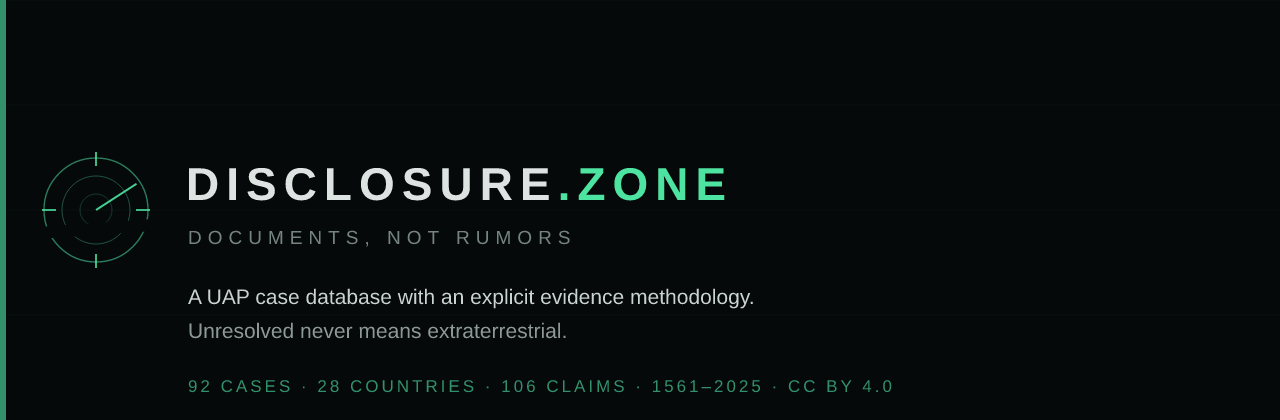
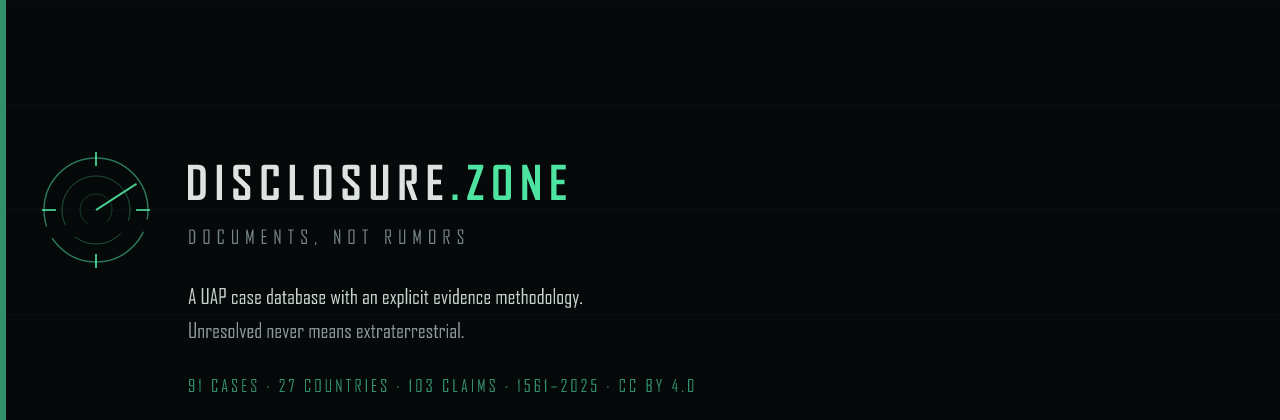
Rebuild belgian-wave-1990 on its two sources and remove chile-navy-2014
- belgian-wave-1990 now rests on what can be opened today: The National
  Archives' paragraph on the night of 30–31 March 1990 (T4) and one sentence
  in a Boston Sunday Globe article of 21 May 2000 filed in the release with
  the COMETA translation (T5, p. 91 of the file; the page is the newspaper,
  not the COMETA report). The radar recordings, the tracking-filter
  explanation, the gendarmerie witnesses and the Petit-Rechain photograph had
  no source and are gone. Scores S1 R1 O0 P0 M1 T1 X1 D0, overall 0.6,
  class D; tier 3; the pin is OpenStreetMap's point for Belgium.
- chile-navy-2014 and the claims chile-navy-video, belgian-f16-acceleration
  and belgian-triangle-photo removed; their reasons are on /withdrawn.
- check-data fails if an id listed in src/data/withdrawn.ts comes back as a
  case or a claim.
- README and banner: 91 cases from 27 countries, 103 claims; 170 of 269
  sources reach the material, 37 point at an archive, 62 have neither.

diff --git a/src/data/claims.ts b/src/data/claims.ts
@@ -438,34 +438,6 @@ export const claims: Claim[] = [
                pl: "Dokumentacja medyczna z placówek na wyspie z okresu wrzesień 1977 – styczeń 1978." },
   },
   {
-    id: "belgian-f16-acceleration",
-    originTier: "T1",
-    status: "misstated",
-    cases: ["belgian-wave-1990"],
-    claim:    { en: "“F-16 radar recorded accelerations impossible for known technology.”",
-               pl: "„Radar F-16 zarejestrował przyspieszenia niemożliwe dla znanej technologii.”" },
-    origin:   { en: "F-16 radar recordings from the night of 30/31 March 1990",
-               pl: "Zapisy radarowe F-16 z nocy 30/31 marca 1990" },
-    verdict:  { en: "The recordings are authentic, but an F-16 radar does not display the target’s raw position — it displays the output of a tracking filter that smooths and predicts a trajectory. When the filter drops one target and acquires another, the record shows a jump that looks exactly like extreme acceleration. This is the single best lesson in the database: you must know whether you are looking at a measurement or at a software product.",
-               pl: "Zapisy są autentyczne, ale radar F-16 nie pokazuje surowej pozycji celu, pokazuje wynik pracy filtru śledzącego, który wygładza i przewiduje trajektorię. Gdy filtr gubi cel i chwyta inny, w zapisie pojawia się skok wyglądający dokładnie jak ekstremalne przyspieszenie. To najlepsza lekcja w całej bazie: trzeba wiedzieć, czy patrzymy na pomiar, czy na produkt oprogramowania." },
-    resolver: { en: "Pre-filter raw data, together with the state and parameters of the tracking algorithm.",
-               pl: "Surowe dane przed filtrem, wraz z opisem stanu i parametrów algorytmu śledzenia." },
-  },
-  {
-    id: "belgian-triangle-photo",
-    originTier: "T5",
-    status: "refuted",
-    cases: ["belgian-wave-1990"],
-    claim:    { en: "“The Petit-Rechain photograph shows a triangular craft from the Belgian wave.”",
-               pl: "„Fotografia z Petit-Rechain przedstawia trójkątny obiekt fali belgijskiej.”" },
-    origin:   { en: "The wave’s most famous photograph, still reproduced today",
-               pl: "Najsłynniejsze zdjęcie fali, reprodukowane do dziś" },
-    verdict:  { en: "In 2011 the photographer admitted on Belgian television that he had built the object from painted styrofoam with lights at the corners, hung on threads. In 2022 he was reported as claiming he had been paid to call it a hoax. That retraction has no documentary support — and it does not rescue the image either way: a photograph whose own author has given two contradictory accounts of making it cannot carry evidential weight. We record the whole sequence because the image is still reproduced, and its circulation distorts how the — otherwise strong — Belgian case is read.",
-               pl: "W 2011 r. fotograf przyznał w belgijskiej telewizji, że zbudował obiekt z pomalowanego styropianu ze światłami w rogach, zawieszonego na żyłkach. W 2022 r. doniesiono, że twierdzi, iż zapłacono mu za nazwanie zdjęcia mistyfikacją. To wycofanie nie ma poparcia dokumentowego i tak czy inaczej nie ratuje zdjęcia: fotografia, której własny autor przedstawił dwie sprzeczne wersje jej powstania, nie może nieść ciężaru dowodowego. Odnotowujemy całą sekwencję, bo zdjęcie wciąż jest reprodukowane, a jego obieg zniekształca postrzeganie skądinąd mocnej sprawy belgijskiej." },
-    resolver: { en: "The original negative, examined independently. Absent that, the contradictory authorship settles it as unusable.",
-               pl: "Oryginalny negatyw zbadany niezależnie. Bez tego sprzeczne wersje autorstwa i tak czynią zdjęcie bezużytecznym." },
-  },
-  {
     id: "gofast-extreme-speed",
     originTier: "T5",
     status: "refuted",
@@ -912,20 +884,6 @@ export const claims: Claim[] = [
                pl: "Potwierdzone publicznie na szczeblu ministerialnym w ciągu dni od zdarzenia, w skali światowej niemal bezprecedensowe. Paradoksalnie sprawiło to, że sprawa jest znacznie mniej znana niż Rendlesham, o którym rząd milczał." },
     resolver: { en: "Nothing as to the intercepts. The nature of the targets remains undetermined.",
                pl: "Nic co do faktu przechwyceń. Charakter celów pozostaje nieustalony." },
-  },
-  {
-    id: "chile-navy-video",
-    originTier: "T1",
-    status: "refuted",
-    cases: ["chile-navy-2014"],
-    claim:    { en: "“The Chilean Navy video shows an object venting material.”",
-               pl: "„Chilijskie nagranie marynarki pokazuje obiekt zrzucający materię.”" },
-    origin:   { en: "IR footage investigated by the state agency CEFAA",
-               pl: "Materiał IR badany przez państwową agencję CEFAA" },
-    verdict:  { en: "After two years of investigation CEFAA identified the object as a scheduled passenger aircraft and the ‘venting’ as contrails dispersing in a high-humidity layer. Settling it required a flight plan — data the operators in the air simply did not have.",
-               pl: "Po dwóch latach dochodzenia CEFAA zidentyfikowała obiekt jako samolot pasażerski w locie rejsowym, a „zrzut materii” jako smugi kondensacyjne rozpraszające się w warstwie o wysokiej wilgotności. Do rozwiązania wystarczył plan lotu, dane, których operatorzy w powietrzu nie mieli." },
-    resolver: { en: "Nothing — the case was resolved and announced publicly.",
-               pl: "Nic, sprawa rozwiązana i ogłoszona publicznie." },
   },
   {
     id: "rendlesham-radar",

diff --git a/src/content/pl/belgian-wave-1990.md b/src/content/pl/belgian-wave-1990.md
@@ -1,58 +1,76 @@
 ---
 title: "Fala belgijska"
-subtitle: "F-16 z zapisem radarowym przeciw trójkątom nad Belgią i poprawka, która wszystko zmienia"
-dateDisplay: "listopad 1989 – kwiecień 1990; kluczowa noc 30/31 marca 1990"
+subtitle: "Trójkąty zgłoszone nad Belgią i dwa F-16 poderwane 30–31 marca 1990 r., znane tylko z dwóch późniejszych relacji"
+dateDisplay: "30–31 marca 1990, po miesiącach obserwacji"
 countryName: "Belgia"
-location: "Wallonia, rejon Eupen, Wavre; przestrzeń nad centralną Belgią"
-duration: "fala pięciomiesięczna; kluczowa akcja ok. 1 godziny"
-witnesses: "Funkcjonariusze żandarmerii, tysiące świadków cywilnych, załogi dwóch F-16"
-summary: "Przez pięć miesięcy tysiące osób w Belgii, w tym funkcjonariusze żandarmerii, zgłaszało duże, ciche obiekty trójkątne. W nocy 30/31 marca 1990 r. przy korelacji z radarami naziemnymi poderwano dwa F-16, których radary uzyskiwały krótkotrwałe kontakty."
-official: "Belgijskie siły powietrzne opublikowały dokumentację i uczestniczyły w analizie. Sprawa pozostała bez identyfikacji."
-alternatives:
-- "Artefakty filtru śledzenia radaru pokładowego F-16, późniejsze analizy wskazały, że nagłe „przyspieszenia” w zapisach odpowiadają zachowaniu filtru Kalmana przy przeskoku śledzenia, a nie ruchowi obiektu."
-- "Helikoptery, samoloty w nietypowych konfiguracjach świetlnych i balony jako źródło części obserwacji naziemnych."
-- "Tajne statki powietrzne (hipoteza stealth), nigdy nie potwierdzona."
+location: "Belgia; kontakt radarowy zgłoszono nad środkową Belgią. Znacznik to punkt OpenStreetMap dla Belgii, nie miejsce żadnej obserwacji"
+witnesses: "Nikt z nazwiska. Streszczenie podaje tylko, że obiekty „were reported” (zgłoszono); piloci dwóch F-16 „reported no sightings”, czyli niczego nie zobaczyli"
+summary: "Według streszczenia The National Archives (Wielka Brytania) 30–31 marca 1990 r. nad Belgią „large, unknown triangular-shaped objects were reported”, czyli zgłoszono duże, nieznane obiekty w kształcie trójkąta, po miesiącach obserwacji; radar „reportedly tracked an unknown object over central Belgium” (podobno śledził nieznany obiekt nad środkową Belgią), belgijskie lotnictwo poderwało dwa F-16, a „The pilots reported no sightings, and the object was not identified”, czyli piloci niczego nie zobaczyli i obiektu nie zidentyfikowano. Artykuł prasowy z 2000 r., złożony w wydaniu, podaje, że F-16 były „armed with missiles” (uzbrojone w pociski)."
+official: "Jedyny urzędowy opis, jaki udało się znaleźć, jest brytyjski. The National Archives: „The pilots reported no sightings, and the object was not identified” (piloci niczego nie zobaczyli, a obiektu nie zidentyfikowano). Dodaje, że Wielka Brytania „was not informed at the time as there was no evidence of any threat” (nie została wtedy poinformowana, bo nic nie wskazywało na zagrożenie) i że „There were no investigations by the Ministry” (ministerstwo nie prowadziło dochodzenia). W wydaniach i na stronach urzędowych, które udało się znaleźć, nie ma żadnego belgijskiego dokumentu."
 sources:
-- "label": "Dokumentacja belgijskich sił powietrznych, w tym materiały gen. Wilfrieda de Brouwera"
-- "label": "Zapisy radarowe F-16 z nocy 30/31 marca 1990"
-- "label": "Późniejsze analizy techniczne zapisów radarowych"
-  note: "To tutaj pojawia się kluczowa poprawka dotycząca filtru śledzenia."
-- "label": "Słynna fotografia trójkąta z Petit-Rechain"
-  note: "Autor przyznał się do mistyfikacji. Zdjęcie nie ma żadnej wartości dowodowej."
 - "label": "The National Archives (Wielka Brytania), strona „UFO reports”: akapit o wydarzeniach w Belgii 30–31 marca 1990"
-  note: "Streszczenie archiwum brytyjskiego, nie dokument belgijski: „Radar reportedly tracked an unknown object over central Belgium, and the Belgian Air Force scrambled two F-16s. The pilots reported no sightings, and the object was not identified.”, czyli radar podobno śledził nieznany obiekt nad środkową Belgią, belgijskie lotnictwo poderwało dwa F-16, piloci niczego nie zobaczyli, a obiektu nie zidentyfikowano."
+  note: "Streszczenie archiwum brytyjskiego, nie dokument belgijski. Stoi obok teczki Ministerstwa Obrony DEFE 24/1958/1 (polityka wobec UFO, 1985–1995); samej teczki do tej sprawy nie czytaliśmy."
+- "label": "Leslie Kean, „UFO theorists gain support abroad, but repression at home”, „The Boston Sunday Globe”, 21 maja 2000, s. E3, złożony w wydaniu razem z angielskim przekładem raportu COMETA (s. 91 pliku)"
+  note: "Artykuł prasowy, nie raport COMETA. Nie podaje źródła swojego zdania o Belgii."
 ---
 
-## Dlaczego to najlepsza lekcja o radarze w całej bazie
+## Co mówią źródła
 
-Fala belgijska jest niezwykle mocna jako zdarzenie i niezwykle pouczająca jako przypadek
-analityczny, bo pokazuje, jak **prawdziwe dane mogą wygenerować nieprawdziwy wniosek**.
+Dwie późniejsze relacje i żadna nie jest belgijska. The National Archives w Londynie streszcza tę noc
+obok teczki Ministerstwa Obrony o polityce wobec UFO, DEFE 24/1958/1:
 
-Zapisy radaru pokładowego F-16 rzeczywiście istnieją i rzeczywiście pokazują gwałtowne zmiany
-parametrów celu. Przez lata przedstawiano je jako pomiar przyspieszeń niemożliwych dla znanej
-technologii.
+> „A major event occurred in 1990 over Belgium. On 30–31 March, large, unknown triangular-shaped objects
+> were reported. This followed months of strange sightings. Radar reportedly tracked an unknown object
+> over central Belgium, and the Belgian Air Force scrambled two F-16s. The pilots reported no sightings,
+> and the object was not identified.”
 
-Późniejsza analiza wskazała inne wyjaśnienie: radar F-16 nie pokazuje surowej pozycji celu.
-Pokazuje **wynik pracy filtru śledzącego**, który wygładza i przewiduje trajektorię. Gdy filtr
-gubi cel i chwyta inny, w zapisie pojawia się skok, który wygląda dokładnie jak ekstremalne
-przyspieszenie, a jest artefaktem algorytmu.
+Czyli: w 1990 r. nad Belgią doszło do poważnego zdarzenia; 30–31 marca zgłoszono duże, nieznane obiekty
+w kształcie trójkąta, po miesiącach dziwnych obserwacji; radar podobno śledził nieznany obiekt nad
+środkową Belgią, a belgijskie lotnictwo poderwało dwa F-16; piloci niczego nie zobaczyli, a obiektu nie
+zidentyfikowano.
 
-## Co to znaczy dla całej dziedziny
+Dalej: „The UK was not informed at the time as there was no evidence of any threat, but the MOD received
+numerous questions on the reported sighting. There were no investigations by the Ministry, although
+enquiries continued, including a Parliamentary Question in September 1996.” Czyli Wielkiej Brytanii
+wtedy nie poinformowano, bo nic nie wskazywało na zagrożenie, ale MOD dostało wiele pytań o tę
+obserwację; ministerstwo nie prowadziło dochodzenia, choć zapytania trwały, w tym interpelacja w
+parlamencie we wrześniu 1996 r.
 
-Nie to, że fala belgijska jest obalona. Tysiące obserwacji naziemnych, w tym relacje żandarmerii,
-pozostają nierozstrzygnięte, a fala jako całość nie ma wyjaśnienia.
+Artykuł w „The Boston Sunday Globe” z 21 maja 2000 r., złożony w wydaniu razem z angielskim przekładem
+raportu COMETA, ma o tej nocy jedno zdanie: „Belgium F-16s armed with missiles pursued a UFO in 1990.”
+(s. 91 pliku), czyli belgijskie F-16 uzbrojone w pociski ścigały w 1990 r. UFO. Nie podaje źródła.
 
-To znaczy coś ważniejszego: **musimy wiedzieć, czy patrzymy na pomiar, czy na produkt
-oprogramowania.** Ta sama ostrożność dotyczy każdego współczesnego zapisu z ATFLIR i każdego
-track file, którego nie widzieliśmy w postaci surowej.
+## Czego w nich nie ma
 
-## Fotografia z Petit-Rechain
+Żadnego dokumentu belgijskiego: ani opisu tej nocy przez lotnictwo, ani jego danych radarowych. Żadna
+z relacji nie mówi, kto zgłaszał trójkąty, ile było osób ani gdzie. Żadna nie podaje czasu, toru ani
+położenia kontaktu radarowego, a „reportedly” (podobno) to słowo samego streszczenia. Przeszukaliśmy
+tekst wszystkich sześciu wydań USA pod kątem Belgii, z poprawką na błędy skanowania; powyższy artykuł to
+jedyna strona, która dotyczy 1990 r.
 
-W 2011 r. najsłynniejsze zdjęcie fali, trójkąt z czterema światłami, zostało przez autora przyznane
-w belgijskiej telewizji jako mistyfikacja: pomalowany styropian ze światłami w rogach, zawieszony na
-żyłkach. W 2022 r. doniesiono, że twierdzi on, iż zapłacono mu za takie oświadczenie.
+## Dlaczego oceny są takie, jakie są
 
-Wycofanie nie ma poparcia dokumentowego i tak czy inaczej nie ratuje zdjęcia. **Fotografia, której
-własny autor przedstawił dwie sprzeczne wersje jej powstania, nie może nieść ciężaru dowodowego.**
-Traktujemy je jako źródło T5 o zerowej wartości i odnotowujemy całą sekwencję, bo zdjęcie wciąż jest
-reprodukowane jako dowód.
+**Świadkowie: 1.** Obiekty „were reported” (zgłoszono), przez osoby, których streszczenie nie wymienia
+ani nie liczy; dwaj piloci „reported no sightings”, czyli niczego nie zobaczyli.
+
+**Radar i optyka: 1 i 0.** Ślad radarowy, który samo streszczenie nazywa zgłoszonym, bez żadnych danych;
+w żadnym źródle nie ma zdjęcia ani filmu.
+
+**Ślad fizyczny: 0.** Żadne źródło o nim nie wspomina.
+
+**Wielokanałowość: 1.** Zgłoszenia i radar docierają do nas przez jedno brytyjskie streszczenie.
+
+**Dokumentacja: 1.** Dwie późniejsze relacje: akapit archiwum i zdanie z gazety; żadnego dokumentu
+belgijskiego.
+
+**Anomalia: 1.** Obiektu „was not identified” (nie zidentyfikowano); nic w nim nie zmierzono.
+
+**Dane dzisiaj: 0.** Poza tymi dwiema relacjami nie da się dziś przeczytać niczego.
+
+Ocena łączna wynosi 0,6: klasa D, głównie relacja.
+
+## Co by to rozstrzygnęło
+
+- Dokumentacja belgijskiego lotnictwa z nocy 30–31 marca 1990 r.
+- Zapisy radarowe F-16.
+- Pełna lektura teczki Ministerstwa Obrony DEFE 24/1958/1 w The National Archives.

diff --git a/src/content/cases/belgian-wave-1990.md b/src/content/cases/belgian-wave-1990.md
@@ -1,88 +1,92 @@
 ---
 title: "The Belgian Wave"
-subtitle: "F-16s with radar recordings against triangles over Belgium — and the correction that changes everything"
+subtitle: "Triangles reported over Belgium and two F-16s scrambled on 30–31 March 1990, known only from two later accounts"
 date: 1990-03-30
-dateDisplay: "November 1989 – April 1990; key night 30/31 March 1990"
+dateDisplay: "30–31 March 1990, after months of sightings"
 country: "BE"
 countryName: "Belgium"
-location: "Wallonia, the Eupen and Wavre areas; airspace over central Belgium"
-lat: 50.63
-lon: 5.57
+location: "Belgium; the radar contact was reported over central Belgium. The pin marks OpenStreetMap’s point for Belgium, not the place of any sighting"
+lat: 50.64
+lon: 4.67
 domain: "military"
-tier: 1
+tier: 3
 status: "unresolved"
-duration: "a five-month wave; the key action about an hour"
-witnesses: "Gendarmerie officers, thousands of civilian witnesses, two F-16 crews"
+witnesses: "None named. The summary says only that objects ‘were reported’; the pilots of the two F-16s ‘reported no sightings’"
 evidence:
-- "radar"
 - "visual"
+- "radar"
 - "intercept"
-- "multi-witness"
 scores:
-  S: 5
-  R: 5
-  O: 2
+  S: 1
+  R: 1
+  O: 0
   P: 0
-  M: 5
-  T: 5
-  X: 3
-  D: 3
-summary: "Over five months thousands of people in Belgium, including gendarmerie officers, reported large, silent triangular objects. On the night of 30/31 March 1990, with correlating ground radar, two F-16s were scrambled and their radars obtained brief contacts."
-official: "The Belgian air force released documentation and participated in the analysis. The case remained unidentified."
-alternatives:
-- "Artefacts of the F-16 radar tracking filter — later analysis indicated that the abrupt “accelerations” in the recordings match Kalman filter behaviour during a track jump rather than target motion."
-- "Helicopters, aircraft in unusual lighting configurations and balloons as the source of some ground sightings."
-- "Classified aircraft (a stealth hypothesis) — never confirmed."
-claims:
-- "belgian-f16-acceleration"
-- "belgian-triangle-photo"
+  M: 1
+  T: 1
+  X: 1
+  D: 0
+summary: "According to a summary by The National Archives (UK), on 30–31 March 1990 ‘large, unknown triangular-shaped objects were reported’ over Belgium after months of sightings; radar ‘reportedly tracked an unknown object over central Belgium’, the Belgian Air Force scrambled two F-16s, and ‘The pilots reported no sightings, and the object was not identified.’ A newspaper article of 2000, filed in the release, says the F-16s were ‘armed with missiles’."
+official: "The only official account found is British. The National Archives: “The pilots reported no sightings, and the object was not identified.” It adds that the UK “was not informed at the time as there was no evidence of any threat” and that “There were no investigations by the Ministry”. No Belgian document is in the releases or on any official page we could find."
 sources:
-- "tier": "T1"
-  label: "Belgian air force documentation, including material from Gen. Wilfried de Brouwer"
-- "tier": "T1"
-  label: "F-16 radar recordings from the night of 30/31 March 1990"
-- "tier": "T4"
-  label: "Later technical analyses of the radar recordings"
-  note: "This is where the key correction about the tracking filter appears."
-- "tier": "T5"
-  label: "The famous Petit-Rechain triangle photograph"
-  note: "The author admitted the hoax. The image has no evidential value."
 - "tier": "T4"
   label: "The National Archives (UK), “UFO reports”: a paragraph on the events in Belgium of 30–31 March 1990"
-  note: "A British archive’s summary, not a Belgian document: “Radar reportedly tracked an unknown object over central Belgium, and the Belgian Air Force scrambled two F-16s. The pilots reported no sightings, and the object was not identified.”"
+  note: "A British archive’s summary, not a Belgian document. It stands beside the Ministry of Defence file DEFE 24/1958/1 (UFO policy, 1985–1995); the file itself was not read for this case."
   ref: "tna-ufo"
+- "tier": "T5"
+  label: "Leslie Kean, “UFO theorists gain support abroad, but repression at home”, The Boston Sunday Globe, 21 May 2000, p. E3, filed in the release with the English translation of the COMETA report (p. 91 of the file)"
+  note: "A newspaper article, not the COMETA report. It gives no source for its sentence on Belgium."
+  ref: "pursue-rg255-cometa"
 ---
 
-## Why this is the best radar lesson in the database
+## What the sources hold
 
-The Belgian wave is remarkably strong as an event and remarkably instructive as an analytical case —
-because it shows how **real data can generate an unreal conclusion.**
+Two later accounts, and neither is Belgian. The National Archives in London summarises the night beside
+a Ministry of Defence file on UFO policy, DEFE 24/1958/1:
 
-The F-16 airborne radar recordings genuinely exist and genuinely show abrupt changes in target
-parameters. For years they were presented as measurements of accelerations impossible for known
-technology.
+> “A major event occurred in 1990 over Belgium. On 30–31 March, large, unknown triangular-shaped objects
+> were reported. This followed months of strange sightings. Radar reportedly tracked an unknown object
+> over central Belgium, and the Belgian Air Force scrambled two F-16s. The pilots reported no sightings,
+> and the object was not identified.”
 
-Later analysis pointed elsewhere. An F-16 radar does not display the target’s raw position. It
-displays **the output of a tracking filter** that smooths and predicts a trajectory. When the filter
-loses one target and acquires another, a jump appears in the record — and that jump looks exactly
-like extreme acceleration, while being an artefact of the algorithm.
+It goes on: “The UK was not informed at the time as there was no evidence of any threat, but the MOD
+received numerous questions on the reported sighting. There were no investigations by the Ministry,
+although enquiries continued, including a Parliamentary Question in September 1996.”
 
-## What this means for the field
+An article in The Boston Sunday Globe of 21 May 2000, filed in the release with the English translation
+of the COMETA report, has one sentence on the night: “Belgium F-16s armed with missiles pursued a UFO in
+1990.” (p. 91 of the file) It names no source.
 
-Not that the Belgian wave is debunked. Thousands of ground sightings, gendarmerie accounts among
-them, remain unresolved, and the wave as a whole has no explanation.
+## What is not in them
 
-It means something more important: **we have to know whether we are looking at a measurement or at a
-software product.** The same caution applies to every modern ATFLIR recording and to every track file
-we have not seen in raw form.
+No Belgian document: not the air force’s account of the night, and not its radar data. Neither account
+says who reported the triangles, how many people did, or where. Neither gives a time, a track or a
+position for the radar contact, and the “reportedly” is the summary’s own word. We searched the text of
+all six US releases for Belgium, allowing for scanning errors; the article above is the only page that
+bears on 1990.
 
-## The Petit-Rechain photograph
+## Why this scores where it does
 
-In 2011 the wave’s most famous image — a triangle with four lights — was admitted by its author, on
-Belgian television, to be a hoax: painted styrofoam with lights at the corners, hung on threads. In
-2022 he was reported as claiming he had been paid to say that.
+**Witnesses: 1.** Objects “were reported”, by people the summary neither names nor counts; the two pilots
+“reported no sightings”.
 
-The retraction has no documentary support, and it does not rescue the photograph either way. **An
-image whose own author has given two contradictory accounts of making it cannot carry evidential
-weight.** We treat it as a T5 source of zero value and record the whole sequence because the image is
-still reproduced as evidence.
+**Radar and optics: 1 and 0.** A radar track that the summary itself calls reported, with no data behind
+it; neither source has a photograph or a film.
+
+**Physical trace: 0.** None is mentioned.
+
+**Multi-channel: 1.** The reports and the radar both reach us through one British summary.
+
+**Documentation: 1.** Two later accounts, an archive’s paragraph and a newspaper’s sentence; no Belgian
+document.
+
+**Anomaly: 1.** The object “was not identified”; nothing about it was measured.
+
+**Data today: 0.** Nothing beyond the two accounts can be read today.
+
+The overall is 0.6: class D, testimony only.
+
+## What would settle it
+
+- The Belgian Air Force’s documentation of the night of 30–31 March 1990.
+- The F-16 radar recordings.
+- A full reading of the Ministry of Defence file DEFE 24/1958/1 at The National Archives.

diff --git a/README.md b/README.md
@@ -17,8 +17,8 @@ The premise: **the UAP problem is not a shortage of cases, it is a shortage of d
 
 ## What is in here
 
-- **92 cases** from 28 countries, from 1561 to cases still open in 2025
-- **106 claims** in a myth-versus-document ledger, each with its origin, source tier,
+- **91 cases** from 27 countries, from 1561 to cases still open in 2025
+- **103 claims** in a myth-versus-document ledger, each with its origin, source tier,
   verification status and the condition that would settle it
 - **14 state programmes** across the US, France, the UK, Italy, Chile, Canada,
   Australia, Sweden, Spain and Brazil
@@ -91,11 +91,11 @@ complete index, and it does not claim to be.
 
 Links fall into three categories and are **never mixed**:
 
-- **170 of 275** sources have an address for the material itself — the only ones that
+- **170 of 269** sources have an address for the material itself — the only ones that
   count toward provenance
-- **38** point at the archive that holds the document (NARA, TNA Discovery, NAA
+- **37** point at the archive that holds the document (NARA, TNA Discovery, NAA
   RecordSearch, LAC, GEIPAN, Arquivo Nacional) — useful, but an archive is not a document
-- **67** have neither, so far
+- **62** have neither, so far
 
 Every address in the registry was checked against a live source rather than guessed. The
 provenance counter is visible on each case and on [`/about`](https://disclosure.zone/about).
